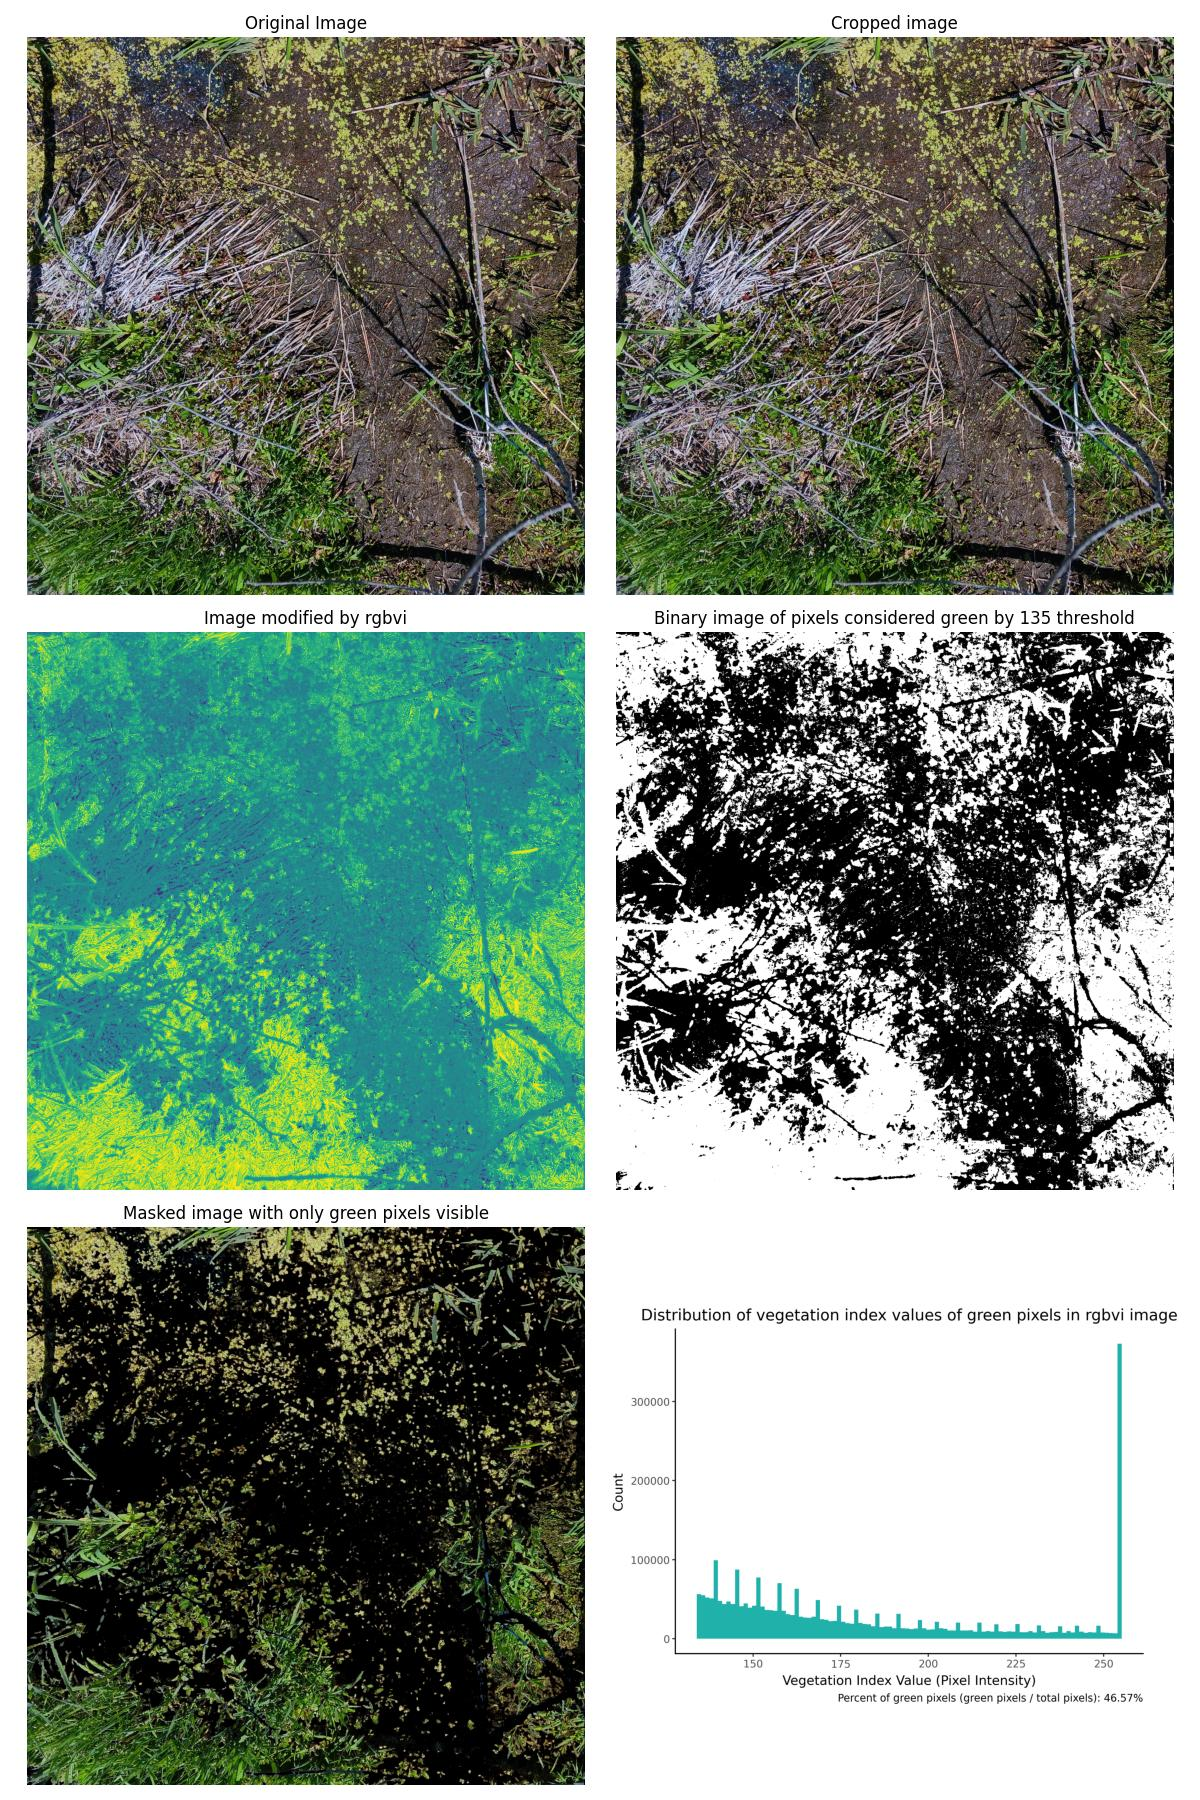
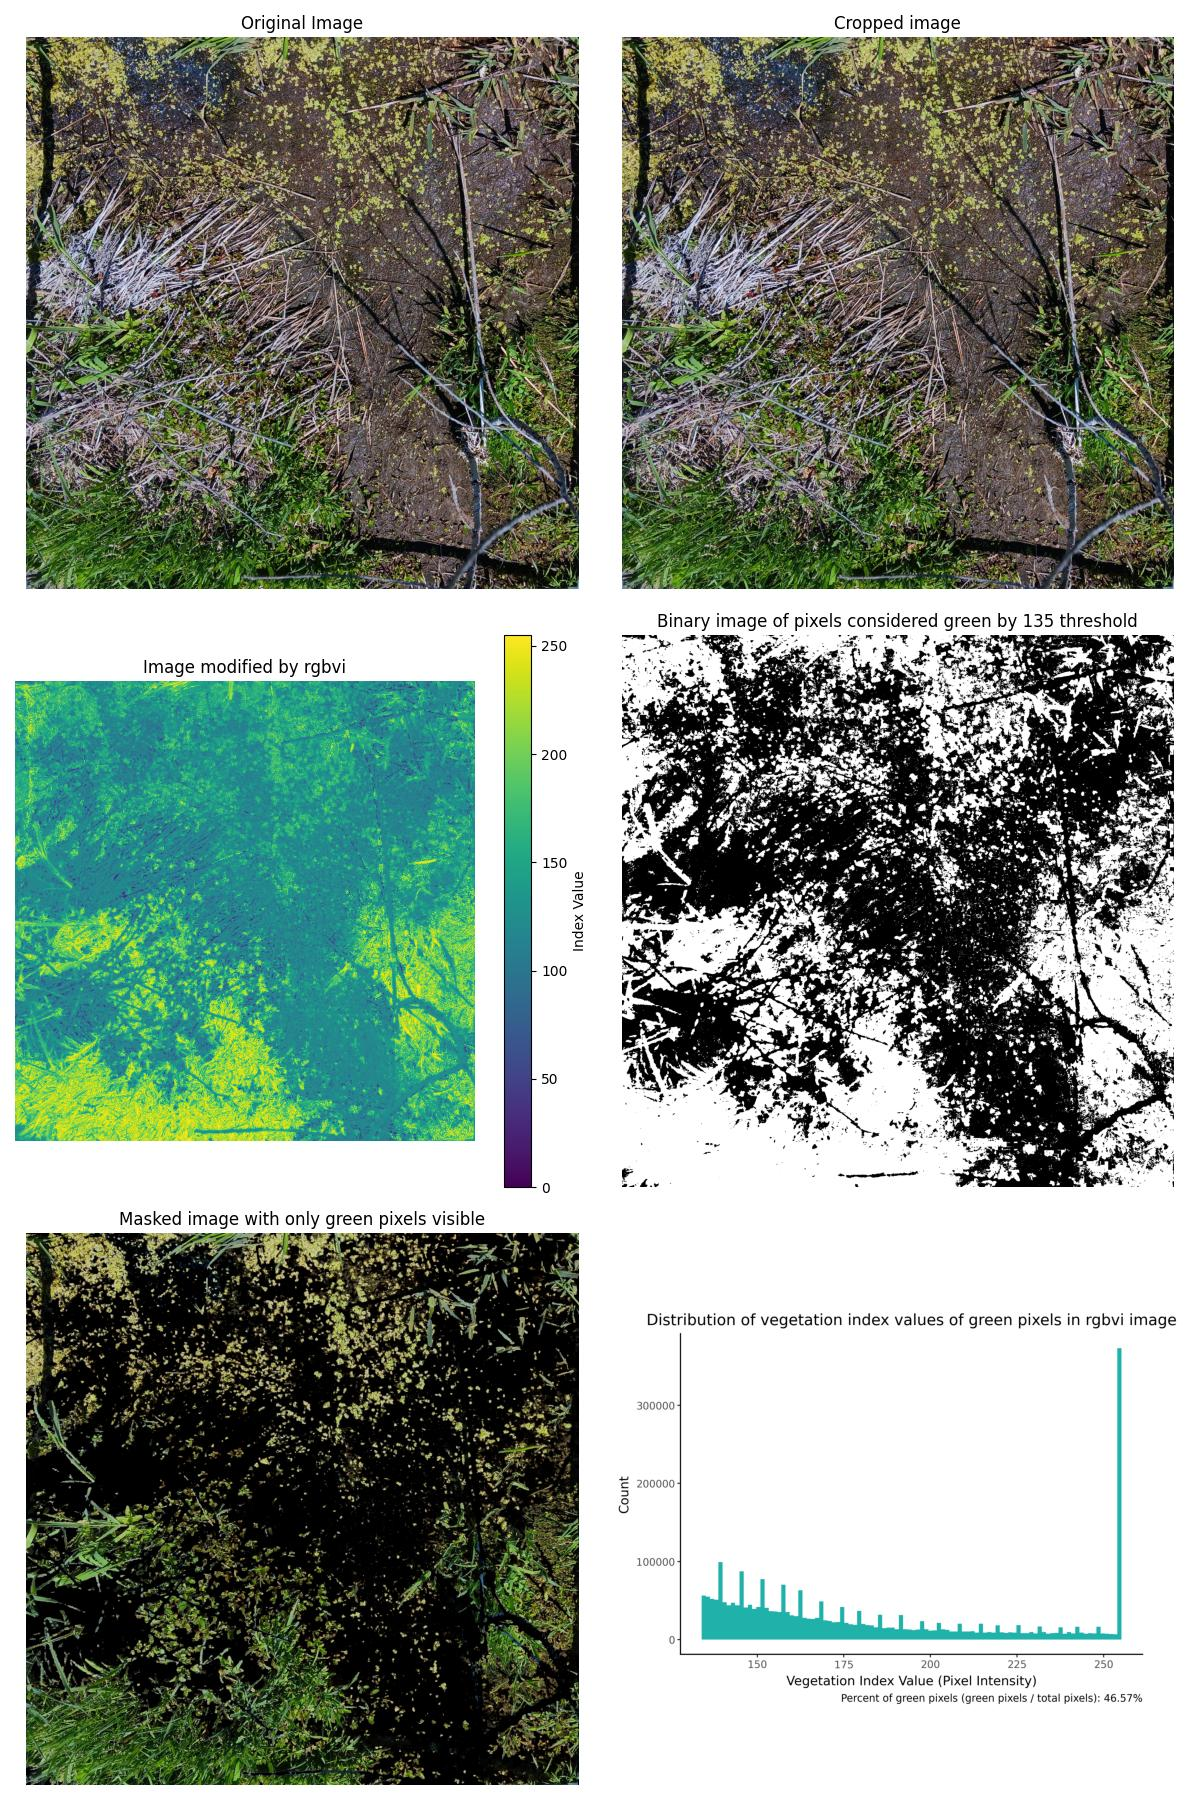
colorbar error fixed, on to the other ones
blaaaaaaaaaagh

diff --git a/master_script.py b/master_script.py
@@ -169,12 +169,12 @@ def run_script(path, output_path, index_type, green_threshold, crop, keep_croppe
     axs[0, 1].axis('off')
 
     # Image modified by vegetation index
-    axs[1, 0].imshow(vi_img, cmap='viridis')
+    image_object = axs[1, 0].imshow(vi_img, cmap='viridis')
     axs[1, 0].set_title(f'Image modified by {index_type}')
     axs[1, 0].axis('off')
     # Add colorbar
-    # cbar = fig.colorbar(vi_img, ax=axs[1, 0], orientation='vertical')
-    # cbar.set_label('Index Value')  # You can label the colorbar as needed
+    cbar = fig.colorbar(image_object, ax=axs[1, 0], orientation='vertical')
+    cbar.set_label('Index Value')  # You can label the colorbar as needed
 
     # Binary image of pixels considered green
     axs[1, 1].imshow(binary, cmap='gray')
@@ -186,7 +186,7 @@ def run_script(path, output_path, index_type, green_threshold, crop, keep_croppe
     axs[2, 0].imshow(img_masked_display)
     axs[2, 0].set_title(f'Masked image with only green pixels visible')
     axs[2, 0].axis('off')
-    plt.imsave('presentation_images/masked.jpg', img_masked_display) # Save the image here if u wanna
+    # plt.imsave('presentation_images/masked.jpg', img_masked_display) # Save the image here if u wanna
 
     # Histogram
     axs[2, 1].imshow(plot_image)
